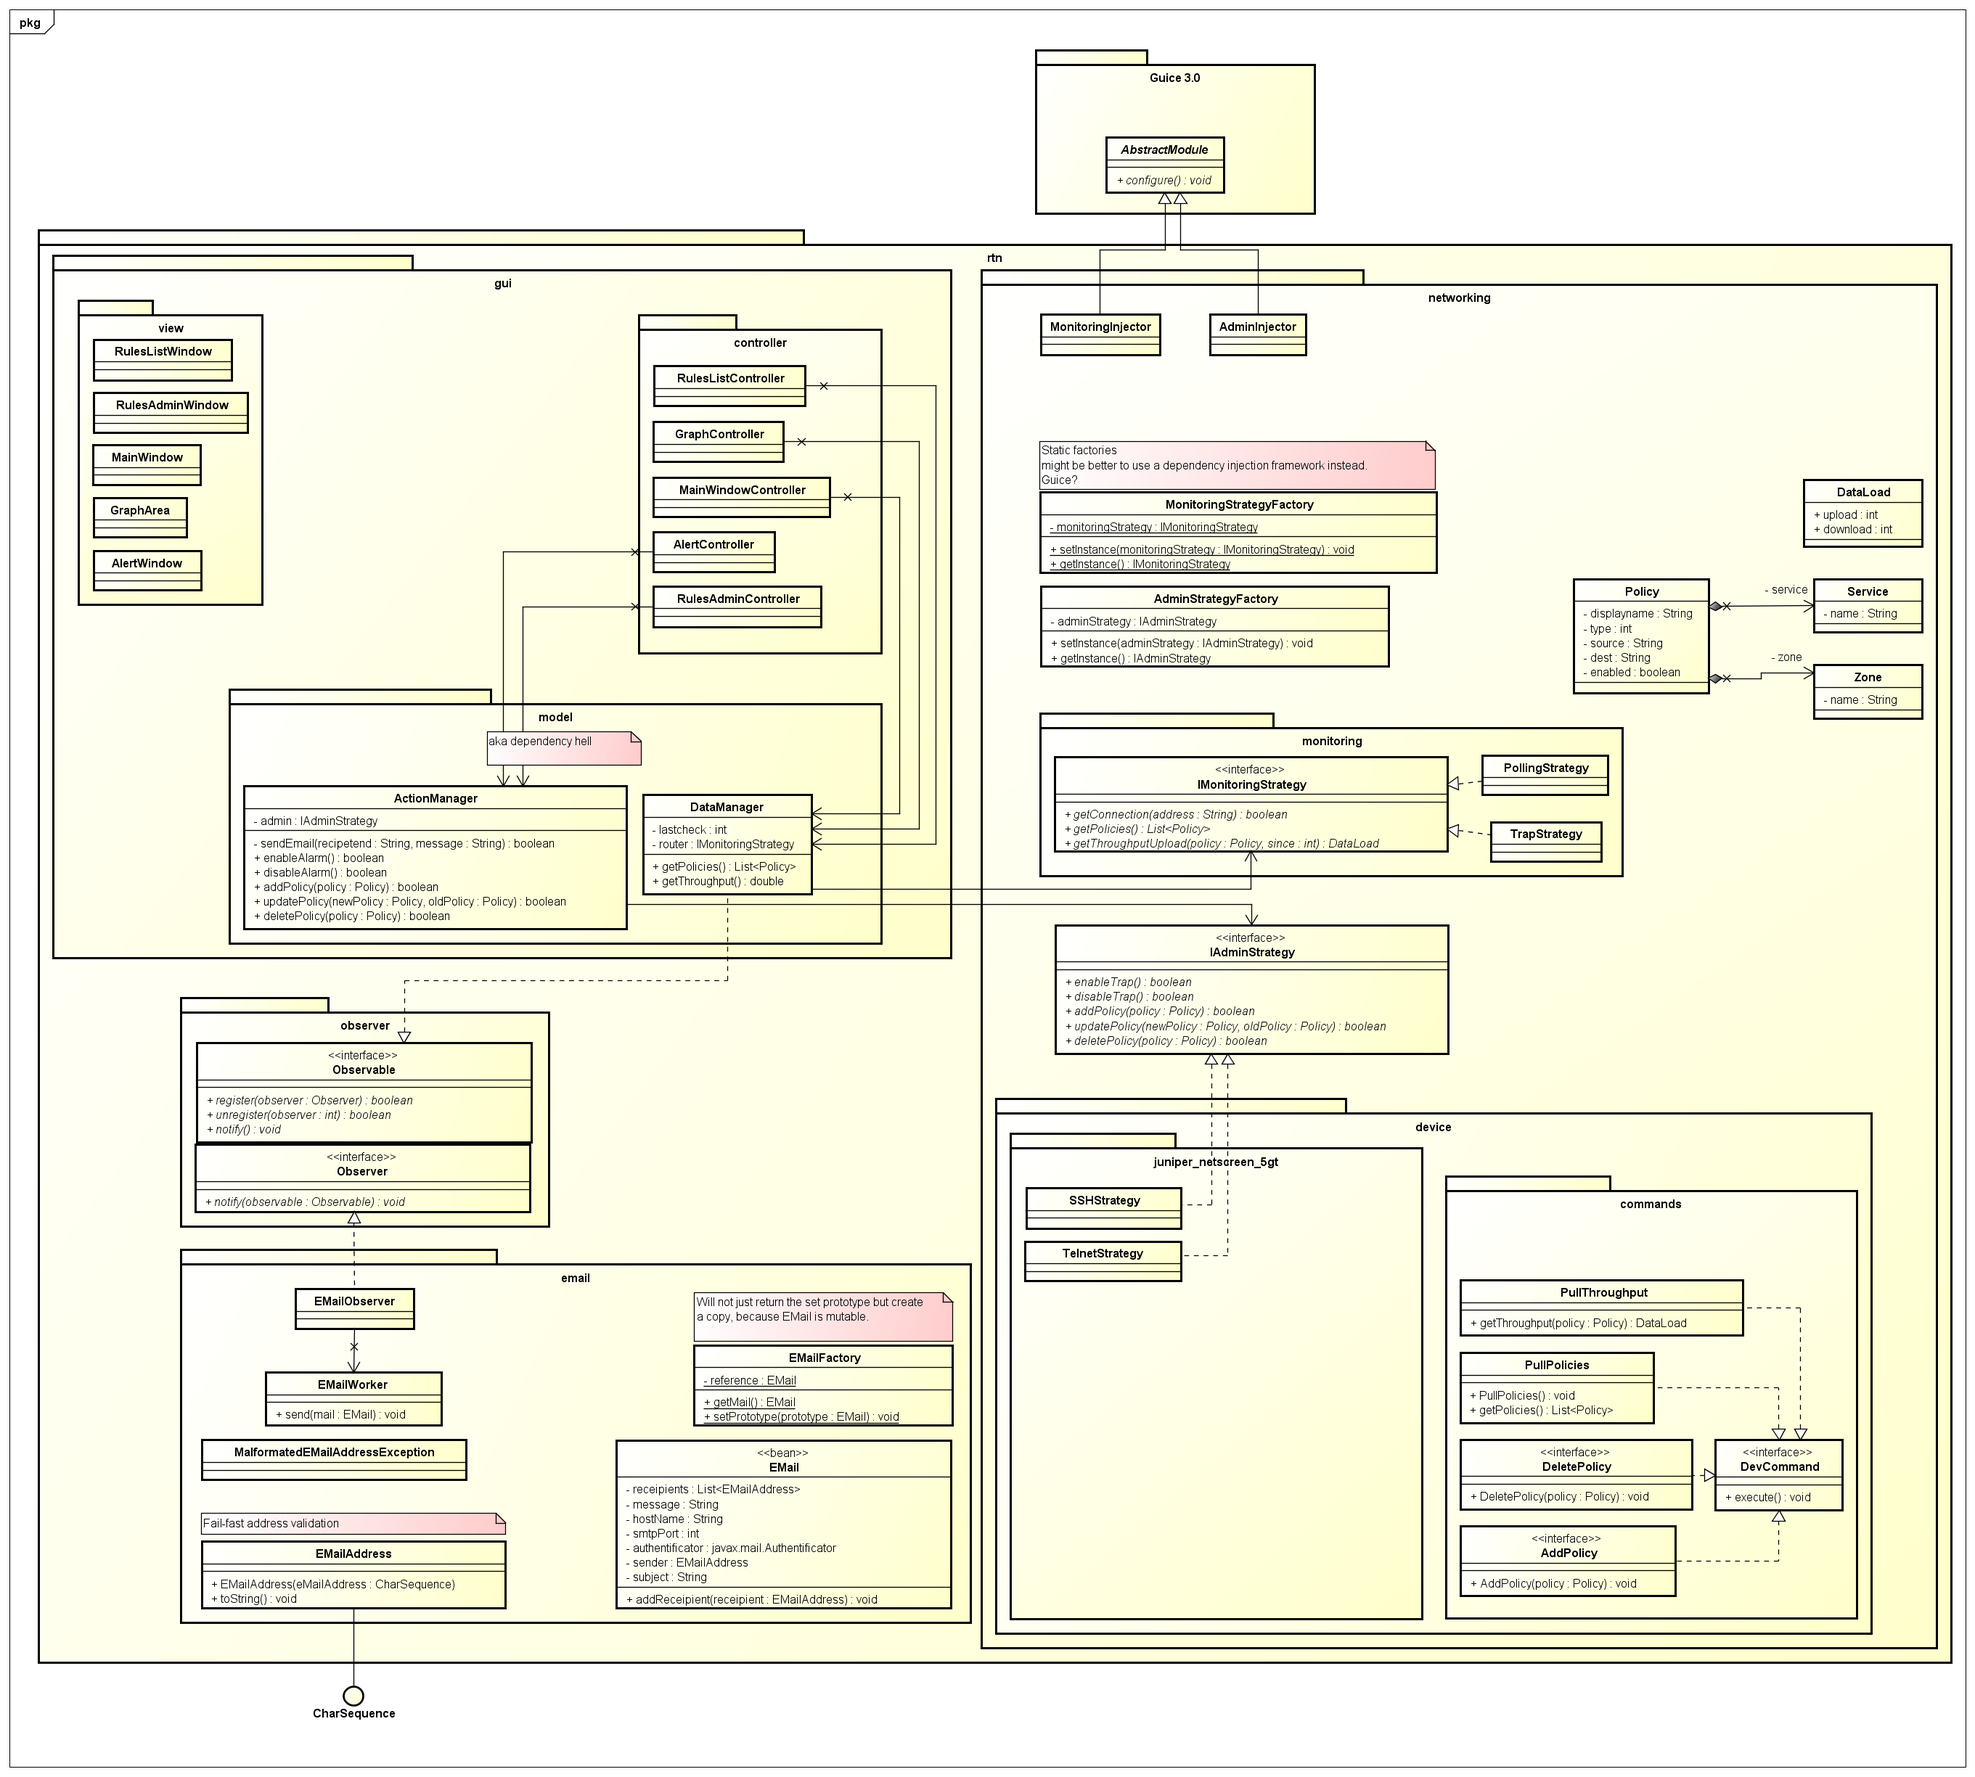
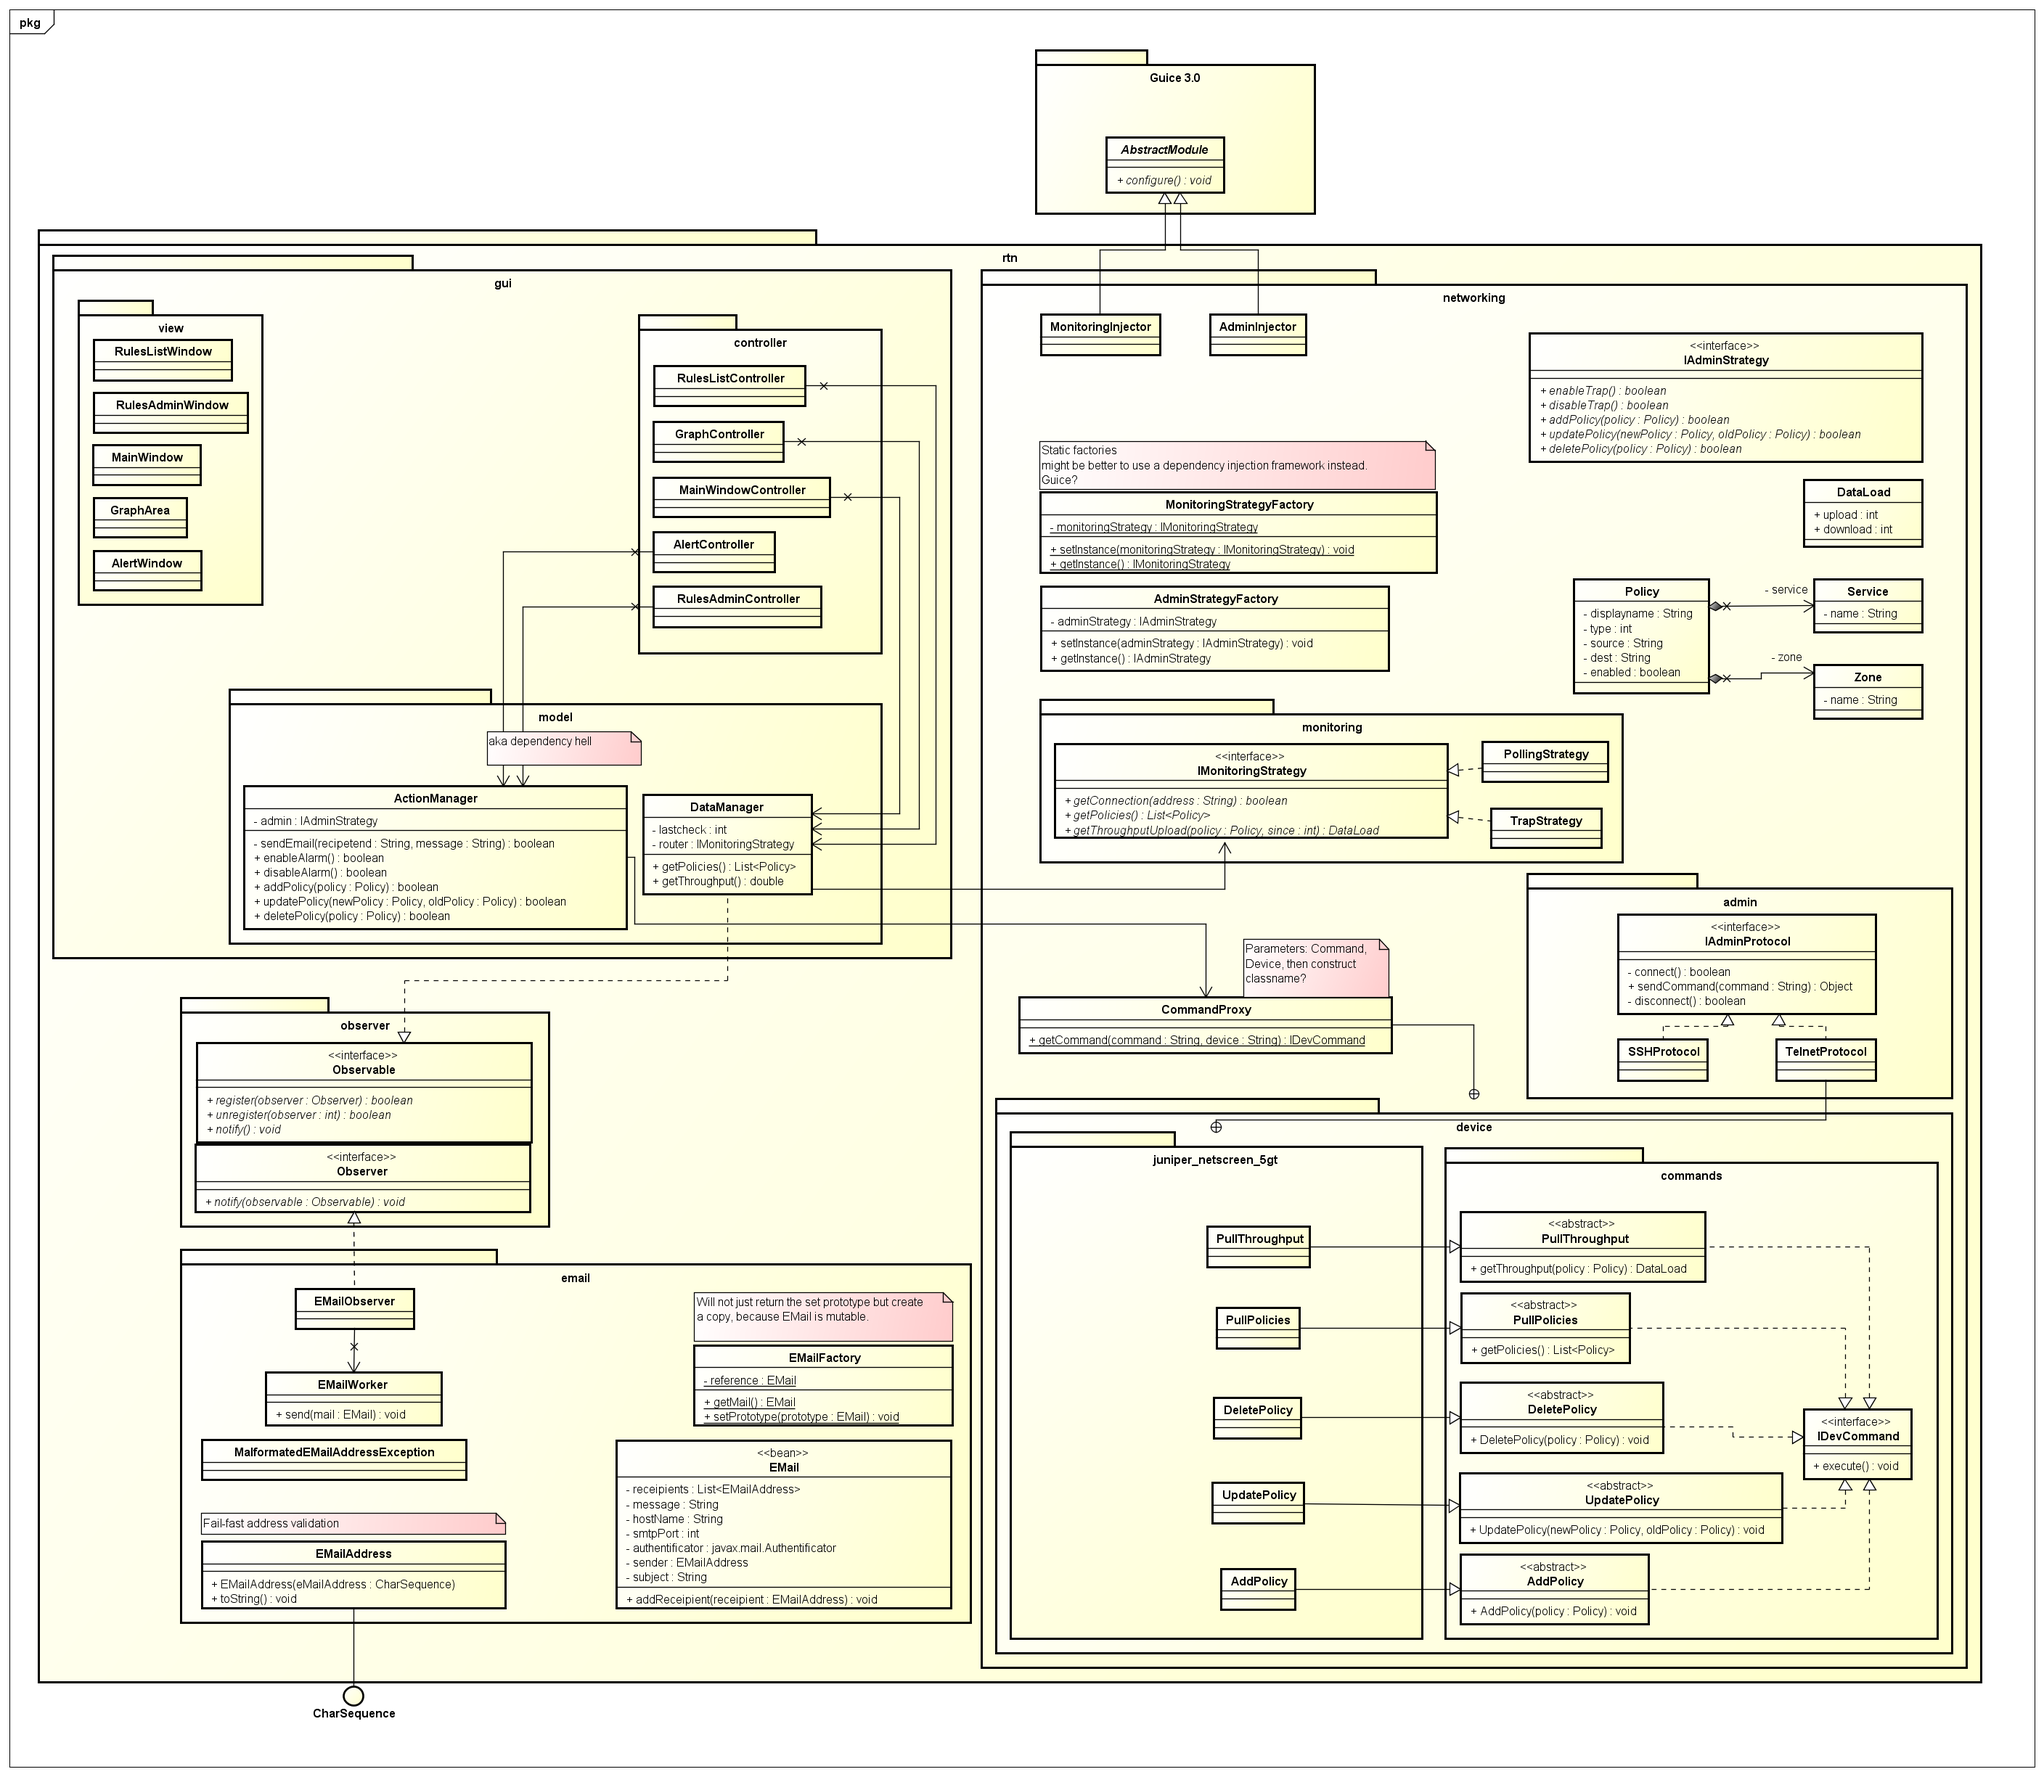
Updated UML, timetracking

diff --git a/docs/timerecording_willinger.rst b/docs/timerecording_willinger.rst
@@ -14,5 +14,7 @@ Recherche MiB/OID                 2014-09-25 15:00 16:00   01:00
 Work distribution                 2014-09-26 13:40 14:30   00:50
 Evaluating EMail libraries        2014-09-26 18:05 19:00   00:55
 Implementing EMail example        2014-09-27 12:15 13:20   01:05
-**TOTAL**                                                **08:30**
+Team meeting                      2014-09-29 13:00 14:00   01:00
+UML Diagram                       2014-09-29 15:00 16:10   01:10
+**TOTAL**                                                **10:40**
 ================================= ========== ===== ===== =========
